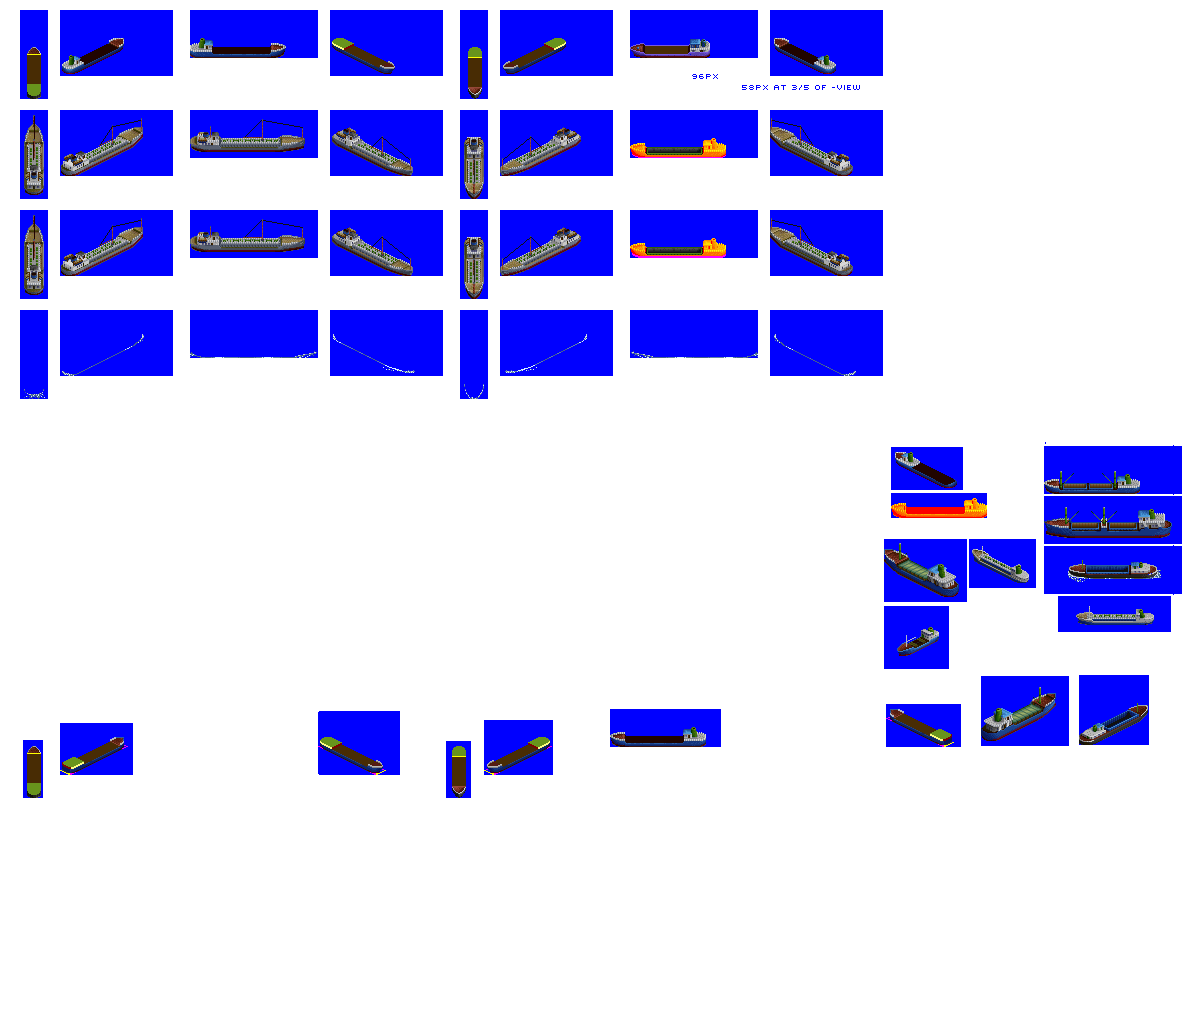
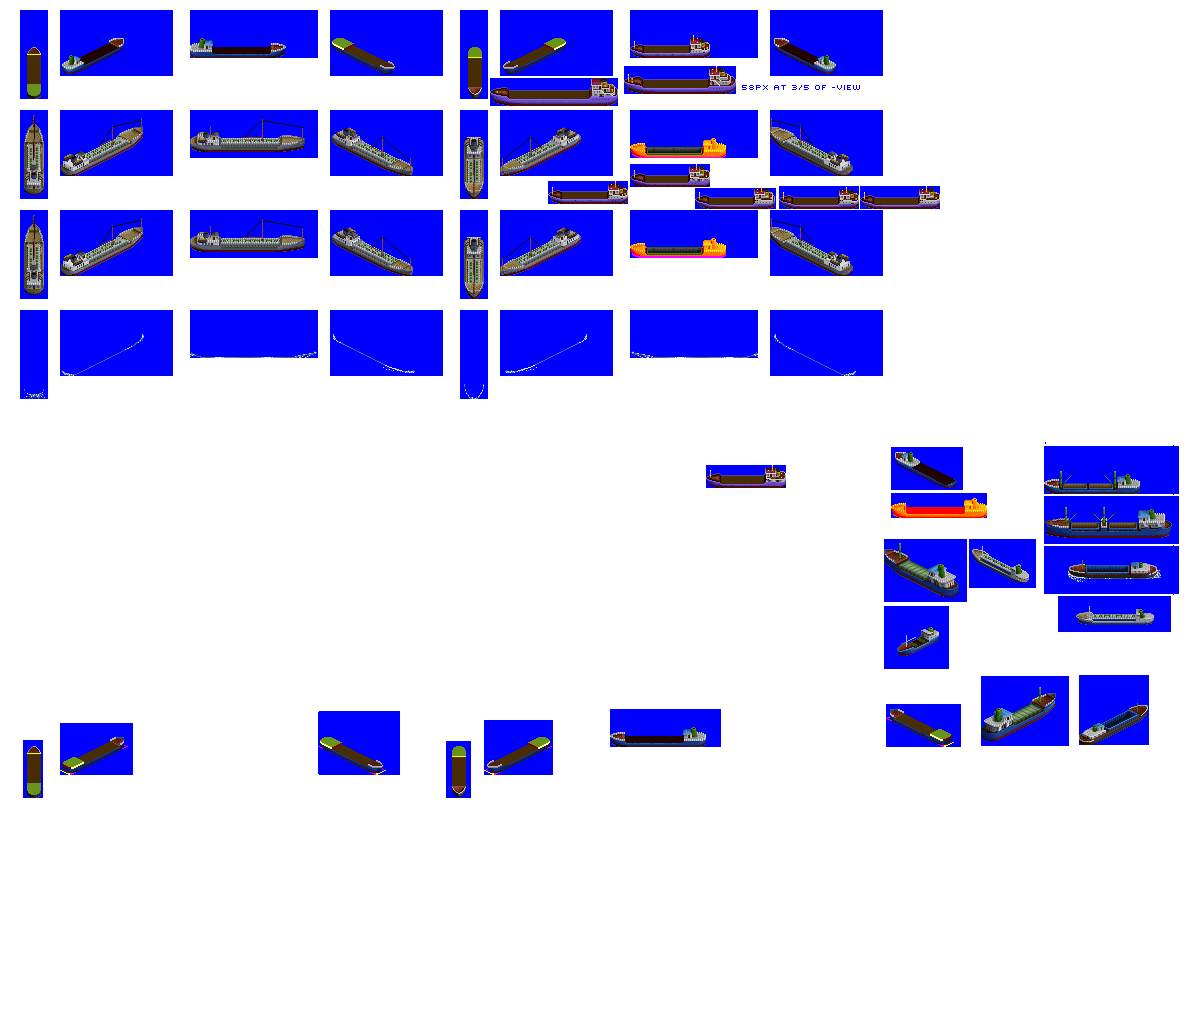
Change: WIP on gen 3C freighter and 80px hull

Changed region(s): [[0.4317, 0.1535, 0.8017, 0.2149], [0.4008, 0.0307, 0.6167, 0.1228], [0.5858, 0.4604, 0.6783, 0.4911]]

diff --git a/src/ship.py b/src/ship.py
@@ -589,7 +589,7 @@ class FreighterBase(Ship):
         self.default_cargos = global_constants.default_cargos["open"]
         # Graphics configuration
         # might need to split house stuff down to individual ships / barges?
-        if self.subtype == "E":
+        if self.subtype == "E" or self.subtype == "C":
             house_recolour_map = graphics_constants.house_recolour_roof_dark_red_1
         elif self.subtype == "F":
             house_recolour_map = graphics_constants.house_recolour_roof_silver_1
